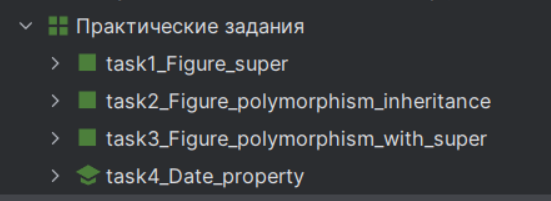
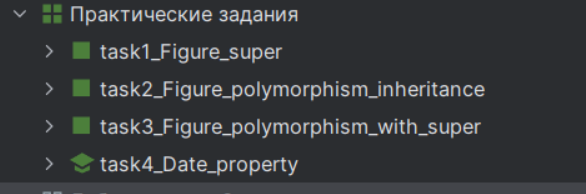
Лабораторная работа 3 модуль 2

diff --git a/task_1.py b/task_1.py
@@ -1,0 +1,68 @@
+class Book:
+    """Базовый класс книги."""
+
+    def __init__(self, name: str, author: str):
+        self._name = name
+        self._author = author
+
+    @property
+    def name(self):
+        return self._name
+
+    @property
+    def author(self):
+        return self._author
+
+    def __str__(self):
+        return f"Книга {self.name}. Автор {self.author}"
+
+    def __repr__(self):
+        return f"{self.__class__.__name__}(name={self.name!r}, author={self.author!r})"
+
+
+class PaperBook(Book):
+    """Класс бумажной книги."""
+
+    def __init__(self, name: str, author: str, pages: int):
+        super().__init__(name, author)
+        self.pages = pages
+
+    @property
+    def pages(self):
+        return self._pages
+
+    @pages.setter
+    def pages(self, value):
+        if not isinstance(value, int) or value <= 0:
+            raise ValueError("Количество страниц должно быть положительным целым числом")
+        self._pages = value
+
+    def __str__(self):
+        return f"Бумажная {super().__str__()}. Количество страниц: {self.pages}"
+
+    def __repr__(self):
+        return f"{self.__class__.__name__}(name={self.name!r}, author={self.author!r}, pages={self.pages})"
+
+
+class AudioBook(Book):
+    """Класс аудиокниги."""
+
+    def __init__(self, name: str, author: str, duration: float):
+        super().__init__(name, author)
+        self.duration = duration
+
+    @property
+    def duration(self):
+        return self._duration
+
+    @duration.setter
+    def duration(self, value):
+        if not isinstance(value, (int, float)) or value <= 0:
+            raise ValueError("Продолжительность должна быть положительным числом")
+        self._duration = value
+
+    def __str__(self):
+        return f"Аудио {super().__str__()}. Продолжительность: {self.duration} часов"
+
+    def __repr__(self):
+        return f"{self.__class__.__name__}(name={self.name!r}, author={self.author!r}, duration={self.duration})"
